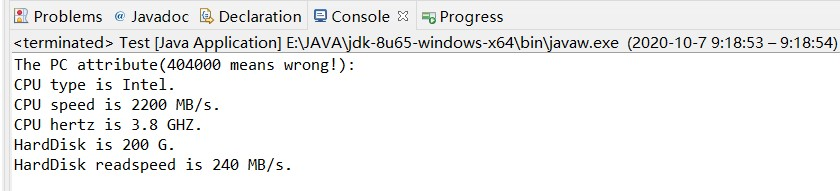
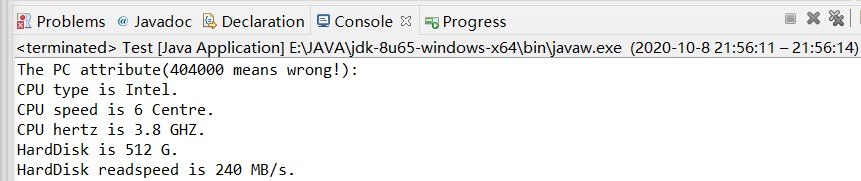
Add files via upload

Changed region(s): [[0.0, 0.0, 1.0, 1.0]]

diff --git a/Test.java b/Test.java
@@ -11,7 +11,7 @@ public class Test {
        
        CPU recpu = new CPU("Intel",3.8);
 
-       HardDisk HD=new HardDisk(200,240);
+       HardDisk HD=new HardDisk(512,240);
 
        PC pc =new PC(cpu,recpu,HD);
 
